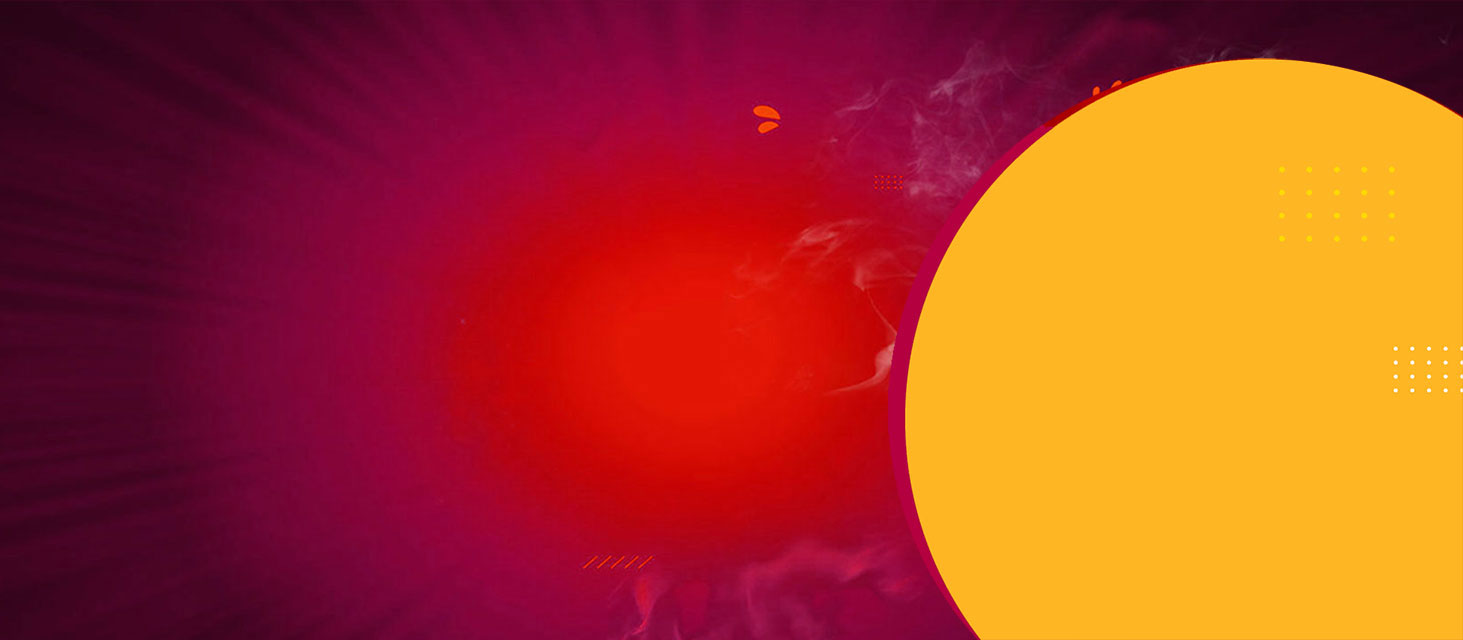
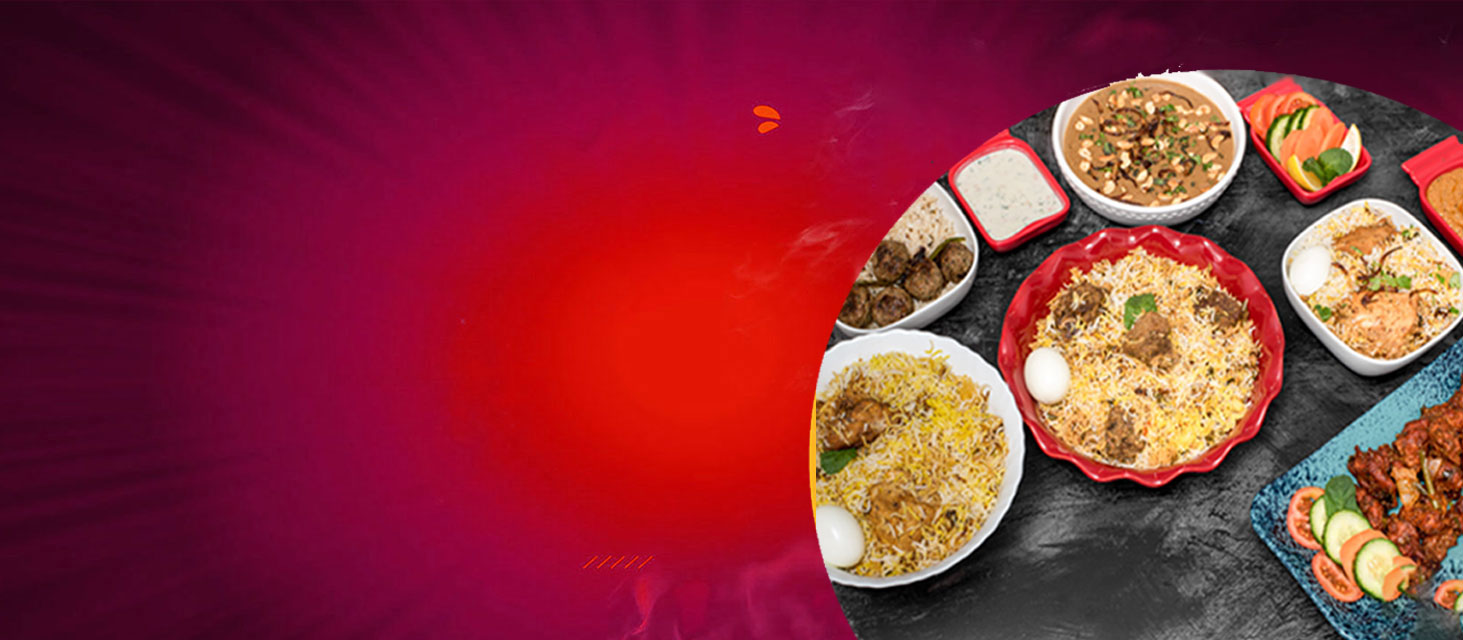
Fix the images for the website

diff --git a/index.html b/index.html
@@ -449,7 +449,7 @@
                         <div class="col-lg-6 col-md-6">
                             <div class="vs-food-box mb-40">
                                 <div class="food-image">
-                                    <img src="images/food-menu-img-9-2.png" alt="Food Image" class="w-100">
+                                    <img src="images/lambbiryani_img.png" alt="Food Image" class="w-100">
                                 </div>
                                 <div class="food-content">
 
@@ -461,7 +461,7 @@
                         <div class="col-lg-6 col-md-6">
                             <div class="vs-food-box mb-40">
                                 <div class="food-image">
-                                    <img src="images/food-menu-img-9-2.png" alt="Food Image" class="w-100">
+                                    <img src="images/chickenbiryani_img.png" alt="Food Image" class="w-100">
                                 </div>
                                 <div class="food-content">
 
@@ -474,7 +474,7 @@
                         <div class="col-lg-6 col-md-6">
                             <div class="vs-food-box mb-40">
                                 <div class="food-image">
-                                    <img src="images/pilau_img.png" alt="Food Image" class="w-100">
+                                    <img src="images/pilauchicken_img.png" alt="Food Image" class="w-100">
                                 </div>
                                 <div class="food-content">
                                     <h3 class="food-title">Pilau Rice & Chicken</h3>
@@ -544,7 +544,7 @@
                         <div class="col-lg-6 col-md-6">
                             <div class="vs-food-box mb-40">
                                 <div class="food-image">
-                                    <img src="images/loadedfries.png" alt="Sidedish Image" class="w-100">
+                                    <img src="images/loadedfries_img.png" alt="Sidedish Image" class="w-100">
                                 </div>
                                 <div class="food-content">
 
@@ -609,7 +609,7 @@
                                         </div>
                                         <span class="food-price">£12.99</span>
                                         <div class="food-img">
-                                            <img src="images/combo_img1.png" alt="food-img">
+                                            <img src="images/lambbiryani_img.png" alt="food-img">
                                         </div>
                                     </div>
                                 </div>
@@ -626,7 +626,7 @@
                                         </div>
                                         <span class="food-price">£10.99</span>
                                         <div class="food-img">
-                                            <img src="images/combo_img2.png" alt="food-img">
+                                            <img src="images/chickenbiryani_img.png" alt="food-img">
                                         </div>
                                     </div>
                                 </div>
@@ -643,7 +643,7 @@
                             <div class="food-list-wrapper food-list-layout1">
 
                                 <div class="vs-food-box mb-20 ml-10">
-                                    <div class="food-bg background-image" data-vs-img="images/footer-bg-2-3.png"
+                                    <div class="food-bg background-image" data-vs-img="images/lambbiryani_img.png"
                                         data-overlay="black" data-opacity="8">
                                     </div>
                                     <div class="food-inner">
@@ -653,13 +653,13 @@
                                         </div>
                                         <span class="food-price">£27.99</span>
                                         <div class="food-img">
-                                            <img src="images/fampack-1.png" alt="food-img">
+                                            <img src="images/lambbiryani_img.png" alt="food-img">
                                         </div>
                                     </div>
                                 </div>
 
                                 <div class="vs-food-box mb-20 ml-10">
-                                    <div class="food-bg background-image" data-vs-img="images/footer-bg-2-3.png"
+                                    <div class="food-bg background-image" data-vs-img="images/chickenbiryani_img.png"
                                         data-overlay="black" data-opacity="8">
                                     </div>
                                     <div class="food-inner">
@@ -670,7 +670,7 @@
                                         </div>
                                         <span class="food-price">£25.99</span>
                                         <div class="food-img">
-                                            <img src="images/fampack-1.png" alt="food-img">
+                                            <img src="images/chickenbiryani_img.png" alt="food-img">
                                         </div>
                                     </div>
                                 </div>
